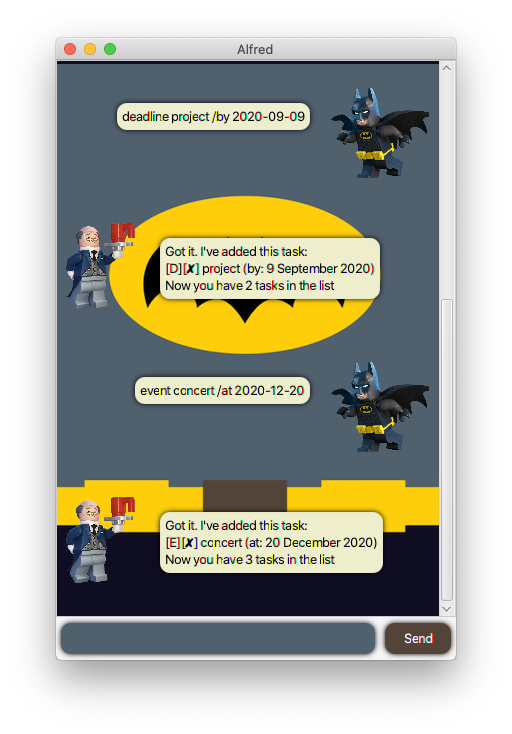
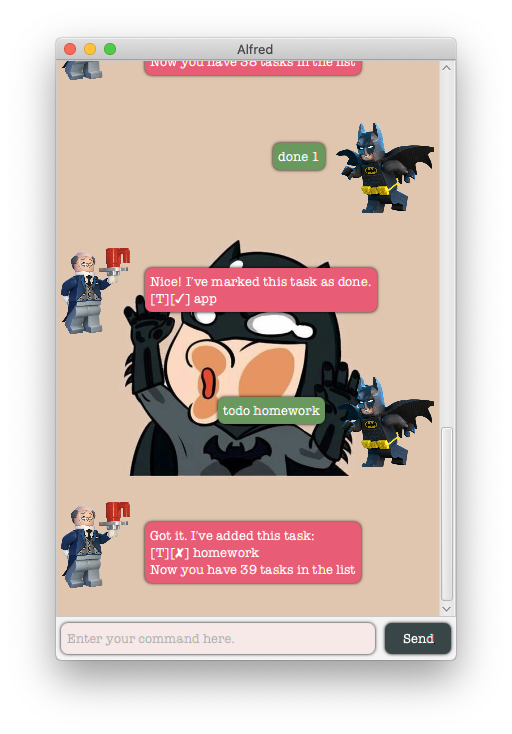
Update GUI

diff --git a/src/main/resources/view/stylesheet.css b/src/main/resources/view/stylesheet.css
@@ -1,33 +1,40 @@
 .background {
     /* Image retrieved from:
-       https://www.deviantart.com/urlogicfails/art/1966-Batman-and-Robin-Phone-Background-554954684
+       https://www.teahub.io/viewwp/moJbbT_batman-cute-kawaii-cute-batman-cartoon-wallpaper-hd/
     */
     -fx-background-image: url('../images/background.png');
+    -fx-background-size: contain;
     -fx-background-position: bottom;
 }
 
-.dialog, .sendButton, .userInput {
+.dialog, .sendButton, .userInput, .alfred {
     -fx-background-insets: 5;
-    -fx-background-radius: 10;
+    -fx-background-radius: 7;
     -fx-border-insets: 5;
-    -fx-border-radius: 10;
-    -fx-effect: dropshadow(gaussian, rgba(0, 0, 0, 0.6), 8, 0.4, 0.0, 0.0);
+    -fx-border-radius: 7;
+    -fx-effect: dropshadow(gaussian, rgba(0, 0, 0, 0.6), 5, 0.4, 0.0, 0.0);
     -fx-font-size: 13;
     -fx-padding: 10;
+    -fx-font-family: "American Typewriter";
 }
 
 .dialog {
-    -fx-background-color: EEEECC;
-    -fx-text-fill: black;
-}
-
-.userInput {
-    -fx-background-color: rgb(78, 97, 109);
+    -fx-background-color: rgb(105, 153, 93);
     -fx-text-fill: white;
 }
 
+.alfred {
+    -fx-background-color: rgb(232, 93, 117);
+    -fx-text-fill: white;
+}
+
+.userInput {
+    -fx-background-color: rgb(248, 233, 233);
+    -fx-text-fill: black;
+}
+
 .sendButton {
-    -fx-background-color: rgb(84, 67, 56);
+    -fx-background-color: rgb(57, 70, 72);
     -fx-text-fill: white;
 }
 

diff --git a/src/main/java/alfred/DialogBox.java b/src/main/java/alfred/DialogBox.java
@@ -58,6 +58,8 @@ public class DialogBox extends HBox {
     public static DialogBox getAlfredDialog(String text, Image img) {
         var db = new DialogBox(text, img);
         db.flip();
+        db.dialog.getStyleClass().remove(".dialog");
+        db.dialog.getStyleClass().add("alfred");
         return db;
     }
 }

diff --git a/README.md b/README.md
@@ -2,6 +2,8 @@
 
 Alfred is a personal assistant chat bot that lets you manage tasks, events and deadlines.
 
+![Alfred](https://raw.githubusercontent.com/pr4aveen/ip/master/docs/Ui.png)
+
 * [Features](#features)
     * [Manage tasks](#manage-tasks)
     * [Mark tasks as done](#mark-tasks-as-done)
@@ -19,7 +21,7 @@ Alfred is a personal assistant chat bot that lets you manage tasks, events and d
     * [`bye` - Quits the application](#bye---quits-the-application)
  * [Credits](#credits)
     
-   
+    
 ## Features 
 
 ### Manage tasks
@@ -212,6 +214,6 @@ Expected outcome:
 ## Credits
 
 * The GUI was created with help from a JavaFX tutorial [here](https://se-education.org/guides/tutorials/javaFx.html).
-* The Batman image was retrieved from [here](https://www.pngfind.com/mpng/hwwTTi_free-png-download-lego-batman-movie-clipart-png/).
+* The Batman image was retrieved from [here](https://www.teahub.io/viewwp/moJbbT_batman-cute-kawaii-cute-batman-cartoon-wallpaper-hd/).
 * The Alfred image was retrieved from [here](https://www.pngfind.com/mpng/TRwRibh_alfred-lego-batman-movie-lego-batman-alfred-png/).
 * The background image was retrieved from [here](https://www.deviantart.com/urlogicfails/art/1966-Batman-and-Robin-Phone-Background-554954684).

diff --git a/docs/README.md b/docs/README.md
@@ -2,6 +2,8 @@
 
 Alfred is a personal assistant chat bot that lets you manage tasks, events and deadlines.
 
+![Alfred](https://raw.githubusercontent.com/pr4aveen/ip/master/docs/Ui.png)
+
 * [Features](#features)
     * [Manage tasks](#manage-tasks)
     * [Mark tasks as done](#mark-tasks-as-done)
@@ -212,6 +214,6 @@ Expected outcome:
 ## Credits
 
 * The GUI was created with help from a JavaFX tutorial [here](https://se-education.org/guides/tutorials/javaFx.html).
-* The Batman image was retrieved from [here](https://www.pngfind.com/mpng/hwwTTi_free-png-download-lego-batman-movie-clipart-png/).
+* The Batman image was retrieved from [here](https://www.teahub.io/viewwp/moJbbT_batman-cute-kawaii-cute-batman-cartoon-wallpaper-hd/).
 * The Alfred image was retrieved from [here](https://www.pngfind.com/mpng/TRwRibh_alfred-lego-batman-movie-lego-batman-alfred-png/).
 * The background image was retrieved from [here](https://www.deviantart.com/urlogicfails/art/1966-Batman-and-Robin-Phone-Background-554954684).
